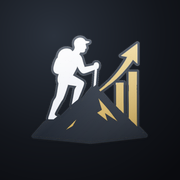
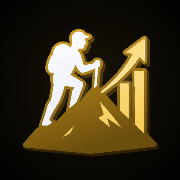
iPhone PWA safe-area pass: dialogs under header, calendar layout, lower header
- Anchor phone dialogs below the fixed header; cap height above the home indicator
- Rework calendar modal sizing and mobile toolbar; safe padding in event composer
- Single --safe-top variable (env inset + 0.5rem in standalone, fallback when iOS reports 0)
- Popover/select/dropdown collision padding, sheet/drawer/floating-button insets
- Landscape side insets on header, bottom nav and page content

diff --git a/ascent_webapp/src/index.css b/ascent_webapp/src/index.css
@@ -197,6 +197,13 @@ button:focus-visible {
     --accent-foreground: 36 80% 24%;
     --glow: 36 92% 40%;
   }
+  /* Logo colours for this palette (same in light and dark) */
+  :root[data-palette="gold"] {
+    --logo-mtn-hi: #e0a91f;
+    --logo-mtn: #6b4d0e;
+    --logo-tint: #fff1c4;
+    --logo-accent: #f7cb52;
+  }
 
   /* ---- Dark: graphite (Settings > Appearance) ---- */
   .dark[data-palette="graphite"] {
@@ -455,7 +462,9 @@ button:focus-visible {
 
 @layer utilities {
   .safe-area-inset-bottom { padding-bottom: env(safe-area-inset-bottom); }
-  .safe-area-inset-top { padding-top: env(safe-area-inset-top); }
+  .safe-area-inset-top { padding-top: var(--safe-top); }
+  /* Landscape: keep content clear of the notch / Dynamic Island side cut-outs */
+  .safe-area-inset-x { padding-left: env(safe-area-inset-left); padding-right: env(safe-area-inset-right); }
   .custom-scrollbar::-webkit-scrollbar { width: 6px; height: 6px; }
   .custom-scrollbar::-webkit-scrollbar-track { background: hsl(var(--muted)); border-radius: 3px; }
   .custom-scrollbar::-webkit-scrollbar-thumb { background: hsl(var(--primary) / 0.5); border-radius: 3px; }
@@ -615,6 +624,30 @@ button:focus-visible {
 /* Figures line up in columns and don't jitter as values update */
 table, .tabular { font-variant-numeric: tabular-nums; }
 
+/* Phones: dialogs hang from just below the fixed app header (64px + the status-bar /
+   notch inset) instead of floating in the middle of the screen, so nothing sits under
+   the header, the Dynamic Island or the home indicator, and the keyboard never pushes
+   the top of a form off-screen. Zero extra offsets on desktop and in a browser tab. */
+@media (max-width: 767px) {
+  [role="dialog"].fixed.top-\[50\%\],
+  [role="alertdialog"].fixed.top-\[50\%\] {
+    top: calc(4rem + var(--safe-top) + 0.5rem);
+    max-height: calc(100dvh - 4rem - var(--safe-top) - env(safe-area-inset-bottom) - 1rem);
+    transform: translateX(-50%);
+    overflow-y: auto;
+    overscroll-behavior: contain;
+    animation-name: none;
+  }
+}
+
+/* Stop iOS from inflating text in landscape and from flashing a grey tap box */
+html { -webkit-text-size-adjust: 100%; text-size-adjust: 100%; }
+@media (display-mode: standalone) {
+  /* Long-press callouts and rubber-banding feel wrong in an app shell */
+  body { -webkit-touch-callout: none; }
+  html, body { overscroll-behavior: none; }
+}
+
 /* ---- Notes: theme-aware note colours ----
    A note stores a colour key; the surface is derived from a hue so every key reads
    correctly in light, Midnight Indigo and the OLED palettes without hard-coded hex. */
@@ -652,3 +685,12 @@ table, .tabular { font-variant-numeric: tabular-nums; }
 
 
 .note-mark { background: hsl(var(--primary) / 0.28); color: inherit; border-radius: 3px; padding: 0 1px; }
+
+/* One source of truth for the top inset. Installed on an iPhone the page runs edge to
+   edge under the notch / Dynamic Island, so everything that clears it reads --safe-top.
+   In standalone we add breathing room below the cut-out so the header content is fully
+   inside the tappable, un-blurred area. */
+:root { --safe-top: env(safe-area-inset-top); }
+@media (display-mode: standalone) {
+  :root { --safe-top: calc(env(safe-area-inset-top) + 0.5rem); }
+}

diff --git a/ascent_webapp/src/pages/Login.jsx b/ascent_webapp/src/pages/Login.jsx
@@ -189,6 +189,10 @@ export default function Login() {
         }
         setIsGoogleLoading(false);
       },
+      // Fired when the popup is closed/blocked; `callback` is not called in that case
+      error_callback: () => {
+        setIsGoogleLoading(false);
+      },
     });
 
     // Request access token with prompt to ensure consent screen shows
@@ -261,7 +265,7 @@ export default function Login() {
   };
 
   return (
-    <div className="bg-background flex justify-center p-2 sm:p-4 overflow-y-auto overflow-x-hidden" style={{ height: '100dvh', minHeight: '100vh', maxHeight: '100dvh', position: 'fixed', top: 0, left: 0, right: 0, bottom: 0, paddingTop: 'max(0.5rem, env(safe-area-inset-top))', paddingBottom: 'max(0.5rem, env(safe-area-inset-bottom))' }}>
+    <div className="bg-background flex justify-center p-2 sm:p-4 overflow-y-auto overflow-x-hidden" style={{ height: '100dvh', minHeight: '100vh', maxHeight: '100dvh', position: 'fixed', top: 0, left: 0, right: 0, bottom: 0, paddingTop: 'max(0.5rem, var(--safe-top))', paddingBottom: 'max(0.5rem, env(safe-area-inset-bottom))' }}>
       <div className="w-full max-w-md flex flex-col items-center justify-center my-auto pt-2 sm:pt-0 pb-2">
         {/* Logo */}
         <div className="text-center mb-2 sm:mb-8 flex-shrink-0">
@@ -285,7 +289,9 @@ export default function Login() {
                   onClick={() => {
                     // Use the simpler ID token flow for login (no calendar scopes)
                     // Calendar access will be requested separately when user accesses calendar feature
-                    setIsGoogleLoading(true);
+                    // Loading is NOT set here: Google gives no callback if the user closes
+                    // the popup/goes back, which would leave the button disabled forever.
+                    // handleGoogleCallback sets it once a credential is received.
                     const buttonContainer = document.getElementById('google-signin-button');
                     if (buttonContainer) {
                       const googleButton = buttonContainer.querySelector('div[role="button"]');
@@ -293,11 +299,9 @@ export default function Login() {
                         // Click the hidden Google button to trigger ID token flow
                         googleButton.click();
                       } else {
-                        setIsGoogleLoading(false);
                         toast.error('Google Sign-In not ready. Please wait a moment and try again.');
                       }
                     } else {
-                      setIsGoogleLoading(false);
                       toast.error('Google Sign-In not available');
                     }
                   }}

diff --git a/ascent_webapp/src/lib/safeArea.js b/ascent_webapp/src/lib/safeArea.js
@@ -1,0 +1,42 @@
+// Radix popper collision padding takes numbers, not CSS env(), so measure the device's
+// safe-area insets once and pad popovers/menus/selects away from the notch, the home
+// indicator and the mobile bottom nav.
+let cached;
+
+const measure = () => {
+  if (typeof document === 'undefined') return { top: 0, bottom: 0 };
+  const probe = document.createElement('div');
+  probe.style.cssText =
+    'position:fixed;visibility:hidden;pointer-events:none;padding-top:var(--safe-top);padding-bottom:env(safe-area-inset-bottom)';
+  document.body.appendChild(probe);
+  const style = getComputedStyle(probe);
+  const inset = { top: parseFloat(style.paddingTop) || 0, bottom: parseFloat(style.paddingBottom) || 0 };
+  probe.remove();
+  return inset;
+};
+
+export function popperCollisionPadding() {
+  if (!cached) {
+    const { top, bottom } = measure();
+    const mobile = typeof window !== 'undefined' && window.matchMedia?.('(max-width: 767px)').matches;
+    // 64px mobile header and bottom nav sit above the page inside the safe area
+    cached = { top: top + (mobile ? 64 : 0) + 8, bottom: bottom + (mobile ? 64 : 0) + 8, left: 8, right: 8 };
+  }
+  return cached;
+}
+
+// Some iOS versions report env(safe-area-inset-top) as 0 in a home-screen app until
+// the first layout. Fall back to a typical notch height so the header never sits
+// under the status bar.
+export function ensureStandaloneTopInset() {
+  if (typeof window === 'undefined') return;
+  const standalone = window.navigator.standalone === true;
+  const iphone = /iPhone/.test(navigator.userAgent);
+  if (!standalone || !iphone) return;
+  const probe = document.createElement('div');
+  probe.style.cssText = 'position:fixed;visibility:hidden;padding-top:env(safe-area-inset-top)';
+  document.body.appendChild(probe);
+  const inset = parseFloat(getComputedStyle(probe).paddingTop) || 0;
+  probe.remove();
+  if (inset < 20) document.documentElement.style.setProperty('--safe-top', 'calc(47px + 0.5rem)');
+}

diff --git a/ascent_webapp/src/components/ui/sheet.jsx b/ascent_webapp/src/components/ui/sheet.jsx
@@ -30,12 +30,12 @@ const sheetVariants = cva(
   {
     variants: {
       side: {
-        top: "inset-x-0 top-0 border-b data-[state=closed]:slide-out-to-top data-[state=open]:slide-in-from-top",
+        top: "inset-x-0 top-0 pt-[max(1.5rem,var(--safe-top))] border-b data-[state=closed]:slide-out-to-top data-[state=open]:slide-in-from-top",
         bottom:
-          "inset-x-0 bottom-0 border-t data-[state=closed]:slide-out-to-bottom data-[state=open]:slide-in-from-bottom",
-        left: "inset-y-0 left-0 h-full w-3/4 border-r data-[state=closed]:slide-out-to-left data-[state=open]:slide-in-from-left sm:max-w-sm",
+          "inset-x-0 bottom-0 pb-[max(1.5rem,env(safe-area-inset-bottom))] border-t data-[state=closed]:slide-out-to-bottom data-[state=open]:slide-in-from-bottom",
+        left: "inset-y-0 left-0 h-full py-[max(1.5rem,var(--safe-top))] ps-[max(1.5rem,env(safe-area-inset-left))] w-3/4 border-r data-[state=closed]:slide-out-to-left data-[state=open]:slide-in-from-left sm:max-w-sm",
         right:
-          "inset-y-0 right-0 h-full w-3/4 border-l data-[state=closed]:slide-out-to-right data-[state=open]:slide-in-from-right sm:max-w-sm",
+          "inset-y-0 right-0 h-full py-[max(1.5rem,var(--safe-top))] pe-[max(1.5rem,env(safe-area-inset-right))] w-3/4 border-l data-[state=closed]:slide-out-to-right data-[state=open]:slide-in-from-right sm:max-w-sm",
       },
     },
     defaultVariants: {

diff --git a/ascent_webapp/src/components/ui/toast.jsx b/ascent_webapp/src/components/ui/toast.jsx
@@ -6,7 +6,7 @@ import { cn } from "@/lib/utils";
 const ToastProvider = React.forwardRef(({ ...props }, ref) => (
   <div
     ref={ref}
-    className="fixed top-0 z-[100] flex max-h-dvh w-full flex-col-reverse p-4 pt-[max(1rem,env(safe-area-inset-top))] pb-[max(1rem,env(safe-area-inset-bottom))] sm:bottom-0 sm:end-0 sm:top-auto sm:flex-col md:max-w-[420px]"
+    className="fixed top-0 z-[100] flex max-h-dvh w-full flex-col-reverse p-4 pt-[max(1rem,var(--safe-top))] pb-[max(1rem,env(safe-area-inset-bottom))] sm:bottom-0 sm:end-0 sm:top-auto sm:flex-col md:max-w-[420px]"
     {...props}
   />
 ));
@@ -15,7 +15,7 @@ ToastProvider.displayName = "ToastProvider";
 const ToastViewport = React.forwardRef(({ ...props }, ref) => (
   <div
     ref={ref}
-    className="fixed top-0 z-[100] flex max-h-dvh w-full flex-col-reverse p-4 pt-[max(1rem,env(safe-area-inset-top))] pb-[max(1rem,env(safe-area-inset-bottom))] sm:bottom-0 sm:end-0 sm:top-auto sm:flex-col md:max-w-[420px]"
+    className="fixed top-0 z-[100] flex max-h-dvh w-full flex-col-reverse p-4 pt-[max(1rem,var(--safe-top))] pb-[max(1rem,env(safe-area-inset-bottom))] sm:bottom-0 sm:end-0 sm:top-auto sm:flex-col md:max-w-[420px]"
     {...props}
   />
 ));

diff --git a/ascent_webapp/src/components/ui/dropdown-menu.jsx b/ascent_webapp/src/components/ui/dropdown-menu.jsx
@@ -3,6 +3,7 @@ import * as DropdownMenuPrimitive from "@radix-ui/react-dropdown-menu"
 import { Check, ChevronRight, Circle } from "lucide-react"
 
 import { cn } from "@/lib/utils"
+import { popperCollisionPadding } from "@/lib/safeArea"
 
 const DropdownMenu = DropdownMenuPrimitive.Root
 
@@ -49,6 +50,7 @@ const DropdownMenuContent = React.forwardRef(({ className, sideOffset = 4, ...pr
     <DropdownMenuPrimitive.Content
       ref={ref}
       sideOffset={sideOffset}
+      collisionPadding={popperCollisionPadding()}
       className={cn(
         "z-50 min-w-[8rem] overflow-hidden rounded-md border bg-popover p-1 text-popover-foreground shadow-md",
         "data-[state=open]:animate-in data-[state=closed]:animate-out data-[state=closed]:fade-out-0 data-[state=open]:fade-in-0 data-[state=closed]:zoom-out-95 data-[state=open]:zoom-in-95 data-[side=bottom]:slide-in-from-top-2 data-[side=left]:slide-in-from-right-2 data-[side=right]:slide-in-from-left-2 data-[side=top]:slide-in-from-bottom-2",

diff --git a/ascent_webapp/src/components/ui/popover.jsx b/ascent_webapp/src/components/ui/popover.jsx
@@ -2,6 +2,7 @@ import * as React from "react"
 import * as PopoverPrimitive from "@radix-ui/react-popover"
 
 import { cn } from "@/lib/utils"
+import { popperCollisionPadding } from "@/lib/safeArea"
 
 const Popover = PopoverPrimitive.Root
 
@@ -15,6 +16,7 @@ const PopoverContent = React.forwardRef(({ className, align = "center", sideOffs
       ref={ref}
       align={align}
       sideOffset={sideOffset}
+      collisionPadding={popperCollisionPadding()}
       className={cn(
         "z-50 w-72 rounded-md border bg-popover p-4 text-popover-foreground shadow-md outline-none data-[state=open]:animate-in data-[state=closed]:animate-out data-[state=closed]:fade-out-0 data-[state=open]:fade-in-0 data-[state=closed]:zoom-out-95 data-[state=open]:zoom-in-95 data-[side=bottom]:slide-in-from-top-2 data-[side=left]:slide-in-from-right-2 data-[side=right]:slide-in-from-left-2 data-[side=top]:slide-in-from-bottom-2",
         className

diff --git a/ascent_webapp/src/components/GoogleCalendar/CalendarModal.jsx b/ascent_webapp/src/components/GoogleCalendar/CalendarModal.jsx
@@ -407,7 +407,7 @@ export default function CalendarModal({ open, onOpenChange }) {
         onKeyDown={onKeyDown}
         onEscapeKeyDown={(e) => { if (composer) { e.preventDefault(); setComposer(null); } }}
         dir={isRTL ? 'rtl' : 'ltr'}
-        className="flex h-[calc(100dvh-4rem-1rem-env(safe-area-inset-top)-env(safe-area-inset-bottom))] w-[calc(100vw-1rem)] max-w-[1400px] flex-col gap-0 overflow-hidden rounded-2xl p-0 sm:h-[min(92dvh,980px)] sm:rounded-3xl"
+        className="flex h-[calc(100dvh-4rem-1rem-var(--safe-top)-env(safe-area-inset-bottom))] w-[calc(100vw-1rem)] max-w-[1400px] flex-col gap-0 overflow-hidden rounded-2xl p-0 sm:h-[min(92dvh,980px)] sm:rounded-3xl"
       >
         <DialogTitle className="sr-only">{t('calendar')}</DialogTitle>
         <DialogDescription className="sr-only">{t('calendarDescription')}</DialogDescription>

diff --git a/ascent_webapp/src/Layout.jsx b/ascent_webapp/src/Layout.jsx
@@ -206,7 +206,7 @@ function LayoutContent({ children, currentPageName }) {
       <main
         onClick={mobileMenuOpen ? () => setMobileMenuOpen(false) : undefined}
         className={cn(
-          "min-h-dvh min-w-0 pt-[calc(4rem+env(safe-area-inset-top))] md:pt-0 md:flex-1 transition-transform duration-300 [transition-timing-function:cubic-bezier(0.32,0.72,0,1)] motion-reduce:transition-none",
+          "min-h-dvh min-w-0 pt-[calc(4rem+var(--safe-top))] md:pt-0 md:flex-1 transition-transform duration-300 [transition-timing-function:cubic-bezier(0.32,0.72,0,1)] motion-reduce:transition-none",
           // On phones the menu sheet pushes the page aside instead of covering it
           mobileMenuOpen && (isRTL ? "-translate-x-[17rem]" : "translate-x-[17rem]")
         )}

diff --git a/ascent_webapp/src/components/settings/SettingsNav.jsx b/ascent_webapp/src/components/settings/SettingsNav.jsx
@@ -55,7 +55,7 @@ export default function SettingsNav({ items, active, onSelect, variant = 'rail' 
       <nav
         aria-label={t('setSections')}
         ref={railRef}
-        className="sticky top-[calc(4rem+env(safe-area-inset-top))] z-30 -mx-4 mb-6 flex gap-1.5 overflow-x-auto border-b border-border/60 bg-background/90 px-4 py-2 backdrop-blur-md md:top-0 md:-mx-8 md:px-8 lg:hidden [scrollbar-width:none] [&::-webkit-scrollbar]:hidden"
+        className="sticky top-[calc(4rem+var(--safe-top))] z-30 -mx-4 mb-6 flex gap-1.5 overflow-x-auto border-b border-border/60 bg-background/90 px-4 py-2 backdrop-blur-md md:top-0 md:-mx-8 md:px-8 lg:hidden [scrollbar-width:none] [&::-webkit-scrollbar]:hidden"
       >
         {items.map(({ id, label }) => (
           <a

diff --git a/ascent_webapp/src/components/AppSidebar.jsx b/ascent_webapp/src/components/AppSidebar.jsx
@@ -141,7 +141,7 @@ export default function AppSidebar({
           'group/sb z-30',
           mobile
             ? cn(
-                'fixed start-0 z-40 w-[17rem] md:hidden top-[calc(4rem+env(safe-area-inset-top))] bottom-0 pb-[env(safe-area-inset-bottom)]',
+                'fixed start-0 z-40 w-[17rem] md:hidden top-[calc(4rem+var(--safe-top))] bottom-0 pb-[env(safe-area-inset-bottom)]',
                 'transition-transform duration-300 [transition-timing-function:cubic-bezier(0.32,0.72,0,1)] motion-reduce:transition-none',
                 open ? 'translate-x-0' : (isRTL ? 'translate-x-full' : '-translate-x-full'),
               )

diff --git a/ascent_webapp/src/pages/AccountDetail.jsx b/ascent_webapp/src/pages/AccountDetail.jsx
@@ -1014,7 +1014,7 @@ export default function AccountDetail() {
     : userCurrency;
 
   return (
-    <div className={cn("flex flex-col h-[calc(100dvh-10rem-env(safe-area-inset-top)-env(safe-area-inset-bottom))] md:h-auto md:min-h-screen p-4 md:p-8", colors.bgPrimary)}>
+    <div className={cn("flex flex-col h-[calc(100dvh-10rem-var(--safe-top)-env(safe-area-inset-bottom))] md:h-auto md:min-h-screen p-4 md:p-8", colors.bgPrimary)}>
       <div className="max-w-7xl mx-auto flex flex-col flex-1 md:flex-none md:block min-h-0 w-full">
         {/* Header */}
         <div className="mb-3 sm:mb-6 flex-shrink-0">
